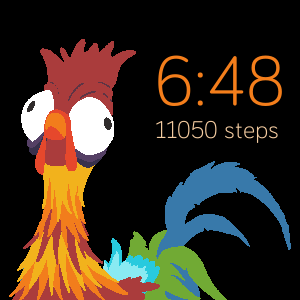
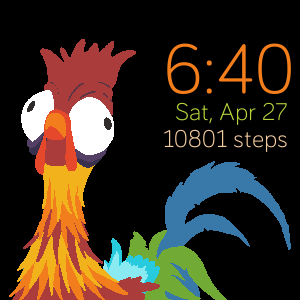
Adding the date

Changed region(s): [[0.51, 0.12, 0.99, 0.51], [0.69, 0.18, 0.72, 0.24]]

diff --git a/app/index.js b/app/index.js
@@ -9,6 +9,7 @@ clock.granularity = "minutes";
 
 // Get a handle on the <text> element
 const time = document.getElementById("time");
+const day = document.getElementById("date");
 const steps = document.getElementById("steps");
 
 // Update the <text> element every tick with the current time
@@ -23,6 +24,31 @@ clock.ontick = (evt) => {
     hours = util.zeroPad(hours);
   }
   let mins = util.zeroPad(date.getMinutes());
+  
+  var weekday = new Array(7);
+  weekday[0] = "Sun";
+  weekday[1] = "Mon";
+  weekday[2] = "Tue";
+  weekday[3] = "Wed";
+  weekday[4] = "Thu";
+  weekday[5] = "Fri";
+  weekday[6] = "Sat";
+  
+  var months = new Array(12);
+  months[0] = "Jan";
+  months[1] = "Feb";
+  months[2] = "Mar";
+  months[3] = "Apr";
+  months[4] = "May";
+  months[5] = "Jun";
+  months[6] = "Jul";
+  months[7] = "Aug";
+  months[8] = "Sep";
+  months[9] = "Oct";
+  months[10] = "Nov";
+  months[11] = "Dec";
+  
   time.text = `${hours}:${mins}`;
+  day.text = weekday[date.getDay()] + `, ` + months[date.getMonth()] + ` ` + date.getDate();
   steps.text = (today.local.steps || 0) + ` steps`;
 }

diff --git a/resources/styles.css b/resources/styles.css
@@ -7,9 +7,19 @@
   font-family: Seville-Book;
   text-length: 32;
   text-anchor: end;
-  x: 95%;
-  y: 35%;
+  x: 98%;
+  y: 31%;
   fill: #f47e1b;
+}
+
+#date {
+  font-size: 25;
+  font-family: Seville-Book;
+  text-length: 32;
+  text-anchor: end;
+  x: 96%;
+  y: 40%;
+  fill: #b6d53c;
 }
 
 #steps {
@@ -17,7 +27,7 @@
   font-family: Seville-Book;
   text-length: 32;
   text-anchor: end;
-  x: 93%;
-  y: 46%;
+  x: 96%;
+  y: 49%;
   fill: #f4cca1;
 }
